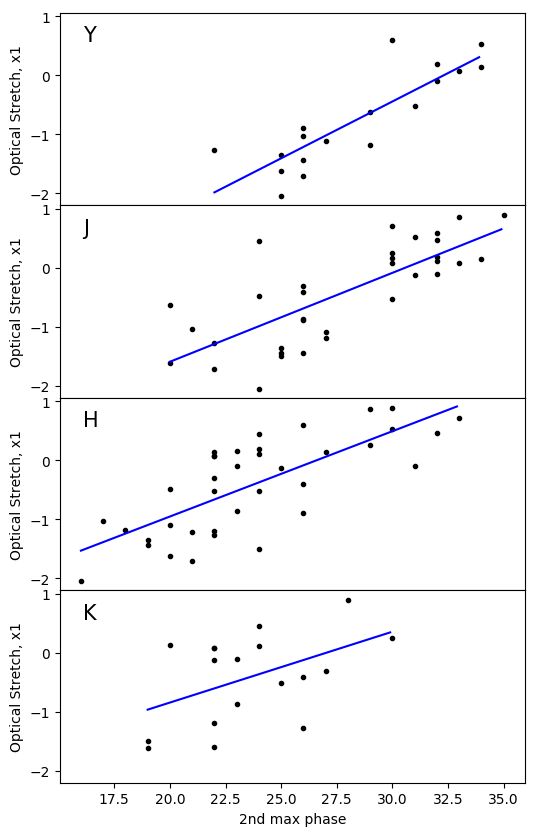
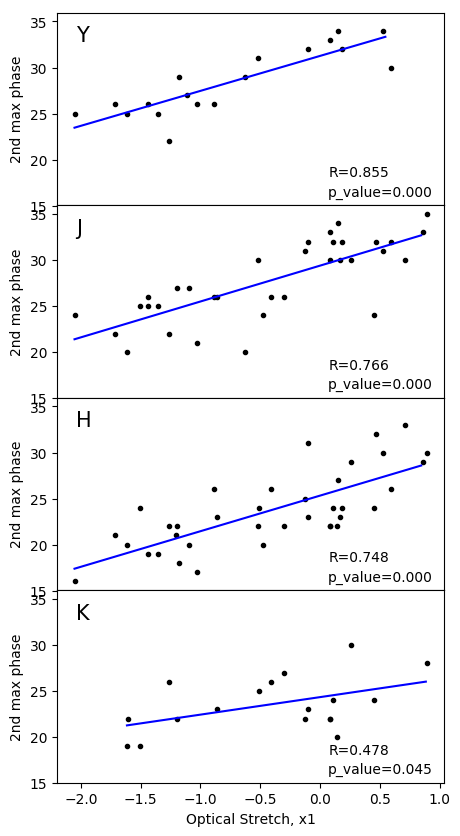
Plot more parameters and added p-value and r-value to plots as text to plots..

diff --git a/scripts/optical_parameters.py b/scripts/optical_parameters.py
@@ -5,6 +5,7 @@ import matplotlib.ticker as ticker
 from sklearn import linear_model
 from sklearn.metrics import mean_squared_error, r2_score
 from scipy import stats
+import copy
 
 
 def read_optical_fitted_table(filename):
@@ -23,7 +24,6 @@ class CompareOpticalAndNIR(object):
         self.opticalData = read_optical_fitted_table(opticalDataFilename)
         self.nirPeaks = nirPeaks
         self.bandName = bandName
-        self.common_sn()
 
         # Add AbsMag column
         self.opticalData = self.opticalData.astype('float')
@@ -32,20 +32,27 @@ class CompareOpticalAndNIR(object):
         # Add nirpeaks flux ratio
         self.nirPeaks['SecondMaxMag - FirstMaxMag'] = self.nirPeaks['secondMaxMag'] - self.nirPeaks['firstMaxMag']
 
-    def common_sn(self):
+    def common_sn(self, nirPeaks, opticalData):
         """Find the common supernova names between optical and NIR 
         and create new DataFrames that contain only information for common SNe."""
-        nirNames = self.nirPeaks.index
-        opticalNames = self.opticalData.index
+        nirPeaks = copy.deepcopy(nirPeaks)
+        opticalData = copy.deepcopy(opticalData)
+
+        nirNames = nirPeaks.index
+        opticalNames = opticalData.index
         names = opticalNames.intersection(nirNames)
-        self.nirPeaks = self.nirPeaks.loc[names]
+        nirPeaks = nirPeaks.loc[names]
         if not names.equals(opticalNames):
             print("Some NIR SNe don't have optical data in %s" % self.bandName)
-            self.opticalData = self.opticalData.loc[names]
+            opticalData = opticalData.loc[names]
+
+        return nirPeaks, opticalData
 
     def nir_peaks_vs_optical_params(self):
         nirPeaks = self.nirPeaks[['SecondMaxMag - FirstMaxMag', 'secondMaxPhase']]
         opticalData = self.opticalData[['AbsMagB', 'x0', 'x1', 'c']]
+        nirPeaks, opticalData = self.common_sn(nirPeaks, opticalData)
+
         fig, ax = plt.subplots(nrows=len(opticalData.columns), ncols=len(nirPeaks.columns), sharex='col', sharey='row')
         fig.subplots_adjust(wspace=0, hspace=0)
         for i, f in enumerate(opticalData.columns):
@@ -63,40 +70,26 @@ class CompareOpticalAndNIR(object):
         fig.suptitle(self.bandName)
         plt.savefig("Figures/%s_opticalParams_vs_NIR_peaks" % self.bandName)
 
-    def x1_vs_second_max_phase(self):
-        y = self.nirPeaks['secondMaxPhase'].values.astype('float')
-        x = self.opticalData['x1'].values.astype('float')
-        # yerr = self.opticalData['x1_err'].values.astype('float')
-        notNan = ~np.isnan(y)
-        x = x[notNan]
-        y = y[notNan]
-        # yerr = yerr[notNan]
+    def plot_parameters(self, fig=None, ax=None, i=0, band='', figinfo=None):
+        xname, yname, xlabel, ylabel, savename, sharey = figinfo
 
-        slope, intercept, r_value, p_value, std_err = stats.linregress(x, y)
-        x_pred = np.arange(min(x), max(x), 0.1)
-        y_pred = slope * x_pred + intercept
-        print("Slope: {0}, Intercept: {1}, R: {2}, p-value:{3}".format(slope, intercept, r_value, p_value))
+        # Only plot supernovae for which we have both optical and NIR data
+        if xname in self.opticalData or yname in self.opticalData:
+            nirPeaks, opticalData = self.common_sn(self.nirPeaks, self.opticalData)
+        else:
+            nirPeaks, opticalData = copy.deepcopy(self.nirPeaks), copy.deepcopy(self.opticalData)
 
-        plt.figure()
-        plt.plot(x, y, '.k')
-        plt.plot(x_pred, y_pred, 'b')
-        plt.xlabel('2nd max phase')
-        plt.ylabel('Optical Stretch, x1')
-        plt.title(self.bandName)
-        plt.savefig("Figures/%s_x1_vs_2nd_max_phase.png" % self.bandName)
-
-    def plot_parameters(self, fig=None, ax=None, i=0, band='', xname='', yname='', xlabel=None, ylabel=None, savename=None):
         # Get data
         if xname in self.nirPeaks:
-            x = self.nirPeaks[xname].values.astype('float')
+            x = nirPeaks[xname].values.astype('float')
         elif xname in self.opticalData:
-            x = self.opticalData[xname].values.astype('float')
+            x = opticalData[xname].values.astype('float')
         else:
             raise ValueError("Invalid x parameter: {}".format(xname))
         if yname in self.nirPeaks:
-            y = self.nirPeaks[yname].values.astype('float')
+            y = nirPeaks[yname].values.astype('float')
         elif yname in self.opticalData:
-            y = self.opticalData[yname].values.astype('float')
+            y = opticalData[yname].values.astype('float')
         else:
             raise ValueError("Invalid y parameter: {}".format(yname))
 
@@ -114,7 +107,7 @@ class CompareOpticalAndNIR(object):
         if not ylabel:
             ylabel = yname
         if not savename:
-            savename = "{}_vs_{}".format(xname, yname)
+            savename = "{}_vs_{}".format(yname, xname)
 
         # Fit trend line
         slope, intercept, r_value, p_value, std_err = stats.linregress(x, y)
@@ -129,8 +122,10 @@ class CompareOpticalAndNIR(object):
         ax[i].set_ylabel(ylabel)
         ax[-1].set_xlabel(xlabel)
         ax[i].text(0.05, 0.85, band, transform=ax[i].transAxes, fontsize=15)
-        if 'mag' in yname.lower():
+        if 'mag' in yname.lower() and sharey is False:
             ax[i].invert_yaxis()
+        ax[i].text(0.7, 0.15, 'R=%.3f' % r_value, transform=ax[i].transAxes)
+        ax[i].text(0.7, 0.05, 'p_value=%.3f' % p_value, transform=ax[i].transAxes)
         fig.subplots_adjust(hspace=0)
         plt.setp([a.get_xticklabels() for a in fig.axes[:-1]], visible=False)
         fig.savefig("Figures/{}.png".format(savename), bbox_inches='tight')

diff --git a/scripts/main.py b/scripts/main.py
@@ -15,22 +15,35 @@ def main():
     snNames = {'Y': [], 'J': [], 'H': [], 'K': []}
 
     # Set up figures
-    fig_x1, ax_x1 = plt.subplots(len(bandList), figsize=(6, 10), sharex=True, sharey=True)
-    fig_secondmax, ax_secondmax = plt.subplots(len(bandList), figsize=(6, 10), sharex=True)
-    fig_spline, ax_spline = plt.subplots(len(bandList), figsize=(6, 10), sharex=True)
+    fig, ax = {}, {}
+    # figinfo values are (xname, yname, xlabel, ylabel, savename, sharey)
+    figinfo = {0: ('', '', None, None, None, False),
+               1: ('x1', 'secondMaxPhase', 'Optical Stretch, x1', '2nd max phase', '2nd_max_phase_vs_x1', True),
+               2: ('secondMaxPhase', 'SecondMaxMag - FirstMaxMag',  None, '2nd - 1st max mag', None, False),
+               3: ('secondMaxPhase', 'secondMaxMag', None, None, None, False),
+               4: ('x1', 'secondMaxMag', None, None, None, False),
+               5: ('x1', 'SecondMaxMag - FirstMaxMag', None, None, None, False),
+               }
+    for figname, (xname, yname, xlabel, ylabel, savename, sharey) in figinfo.items():
+        fig[figname], ax[figname] = plt.subplots(len(bandList), figsize=(5, 10), sharex=True, sharey=sharey)
+        if 'mag' in yname.lower() and sharey is True:
+            ax[figname][0].invert_yaxis()
 
     for i, band in enumerate(bandList):
         filenameList, scriptDir = get_filenames(band)
         popStats = PopulationStatistics(filenameList, band)
-        xBinsArray, yBinsArray, peaks, headerData = popStats.get_binned_light_curves(colorMarker=colorMarker, plot=True, bin_size=1, fig_spl=fig_spline, ax_spl=ax_spline, band_spl=band, i_spl=i)
+        xBinsArray, yBinsArray, peaks, headerData = popStats.get_binned_light_curves(colorMarker=colorMarker, plot=True, bin_size=1, fig_spl=fig[0], ax_spl=ax[0], band_spl=band, i_spl=i)
         muList = popStats.get_mu(headerData)
         labelledMaxima = popStats.plot_mu_vs_peaks(muList, peaks)
 
         opticalNIR = CompareOpticalAndNIR('data/Table_salt_snoopy_fittedParams.txt', labelledMaxima, band)
         opticalNIR.nir_peaks_vs_optical_params()
-        # opticalNIR.x1_vs_second_max_phase()
-        opticalNIR.plot_parameters(fig=fig_x1, ax=ax_x1, i=i, band=band, xname='secondMaxPhase', yname='x1', xlabel='2nd max phase', ylabel='Optical Stretch, x1', savename='2nd_max_phase_vs_x1')
-        opticalNIR.plot_parameters(fig=fig_secondmax, ax=ax_secondmax, i=i, band=band, xname='secondMaxPhase', yname='SecondMaxMag - FirstMaxMag', ylabel='2nd - 1st max mag')
+        opticalNIR.plot_parameters(fig=fig[1], ax=ax[1], i=i, band=band, figinfo=figinfo[1])
+        opticalNIR.plot_parameters(fig=fig[2], ax=ax[2], i=i, band=band, figinfo=figinfo[2])
+        opticalNIR.plot_parameters(fig=fig[3], ax=ax[3], i=i, band=band, figinfo=figinfo[3])
+        opticalNIR.plot_parameters(fig=fig[4], ax=ax[4], i=i, band=band, figinfo=figinfo[4])
+        opticalNIR.plot_parameters(fig=fig[5], ax=ax[5], i=i, band=band, figinfo=figinfo[5])
+
 
         # Get list of sn name
         for fname in popStats.filenameList:
